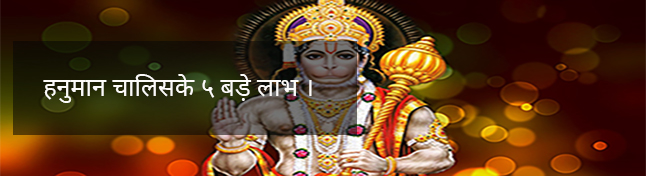
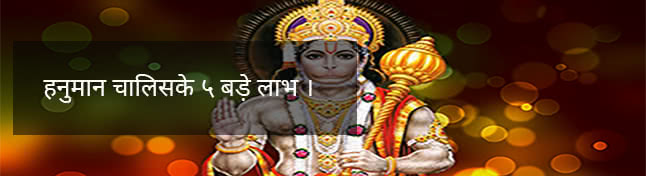
Modified benifits page and added changes for wallpaper

diff --git a/hanuman/hindi/pages/hanuman-chalisa-hindi-benifits.html b/hanuman/hindi/pages/hanuman-chalisa-hindi-benifits.html
@@ -325,7 +325,7 @@ padding-bottom:20px;
               </div>
               <div class="mdl-cell mdl-card mdl-shadow--4dp portfolio-card">
                   <div class="mdl-card__media">
-                      <img class="article-image" src="../resources/HanumanWallpaper3.jpg" border="0" alt="">
+                      <img class="article-image" src="../resources/HanumanWallPaper3.jpg" border="0" alt="">
                   </div>
                   <div class="mdl-card__title">
                       <h2 class=" template-card-title-text mdl-card__title-text">महा काय हनुमान</h2>

diff --git a/hanuman/hindi/pages/hanuman-chalisa-hindi-download.html b/hanuman/hindi/pages/hanuman-chalisa-hindi-download.html
@@ -301,7 +301,7 @@ padding-bottom:20px;
          </div>
          <div class="mdl-cell mdl-card mdl-shadow--4dp portfolio-card">
              <div class="mdl-card__media">
-                 <img class="article-image" src="../resources/HanumanWallpaper3.jpg" border="0" alt="">
+                 <img class="article-image" src="../resources/HanumanWallPaper3.jpg" border="0" alt="">
              </div>
              <div class="mdl-card__title">
                  <h2 class=" template-card-title-text mdl-card__title-text">महा काय हनुमान</h2>
